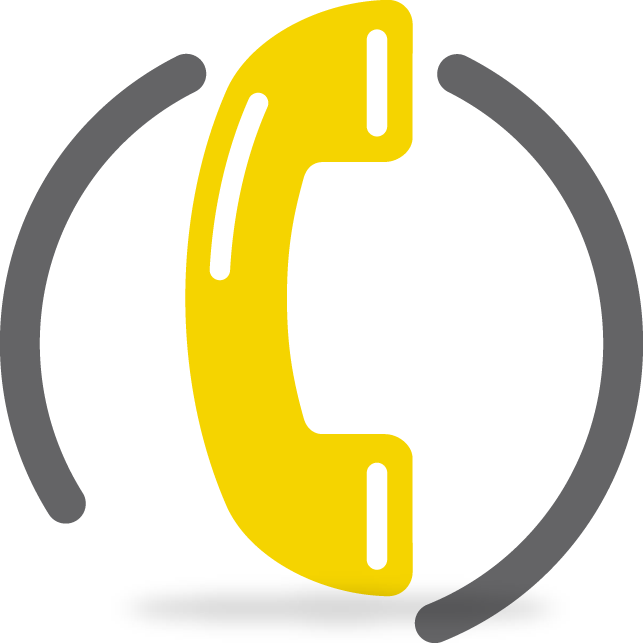
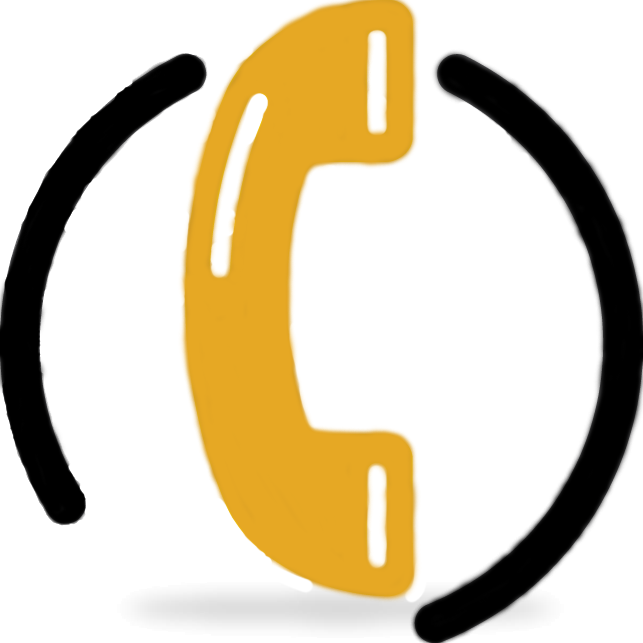
bro sync didn't work???

diff --git a/goldline/index.html b/goldline/index.html
@@ -160,7 +160,7 @@
                     <div class="card-content black-text">
                     <span class="card-title">Why Choose Us?</span>
                     <br>
-                    <img class="responsive-img" src="images/contact2.png" style="height:117px">
+                    <img class="responsive-img" src="images/contact1.png" style="height:117px">
                     <p>
                         <li>18 Years of Experience.</li>
                         <li>Variety of services.</li>
@@ -168,7 +168,7 @@
                     </p>
                     </div>
                 <div class="card-action">
-                    <a class="waves-effect waves-light btn orange accent-3"><i class="material-icons left">phone</i>Contact Us</a>
+                    <a href="contact.html" class="waves-effect waves-light btn orange accent-3"><i class="material-icons left">phone</i>Contact Us</a>
                 </div>
                 </div>
             </div>
